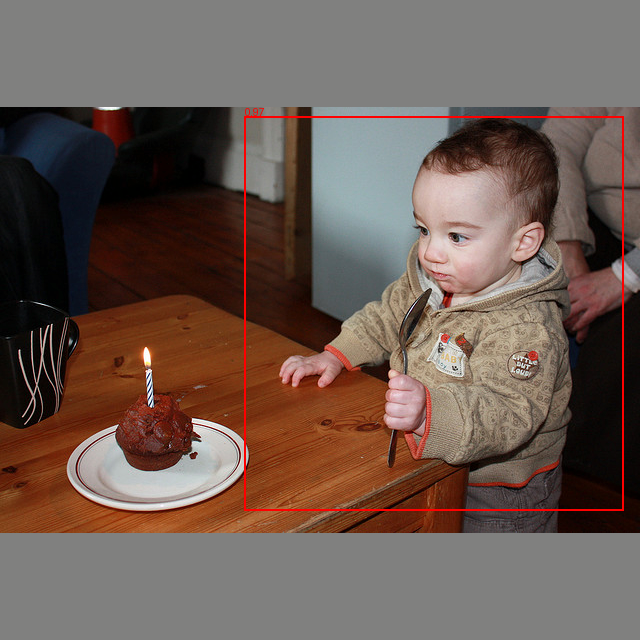
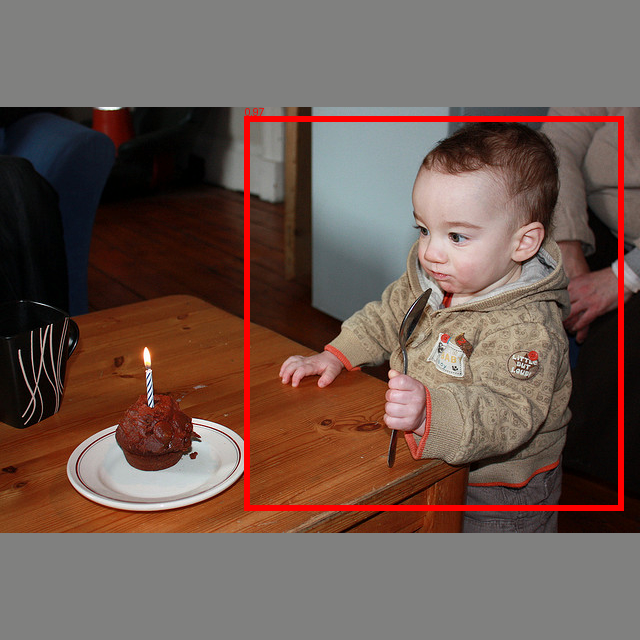
init

Changed region(s): [[0.375, 0.1875, 0.9688, 0.8125], [0.9375, 0.1875, 0.9688, 0.2188]]

diff --git a/src/utils.py b/src/utils.py
@@ -80,7 +80,7 @@ def draw_bboxes(image_tensor, pred_tensor, conf_threshold=0.1, save_path="output
         x2 = center_x_pixel + (width_pixel / 2)
         y2 = center_y_pixel + (height_pixel / 2)
 
-        draw.rectangle([x1, y1, x2, y2], outline='red', width=2)
+        draw.rectangle([x1, y1, x2, y2], outline='red', width=6)
         draw.text((x1, y1 - 10), f"{conf:.2f}", fill="red")
     os.makedirs(os.path.dirname(save_path) or ".", exist_ok=True)
     img.save(save_path)
